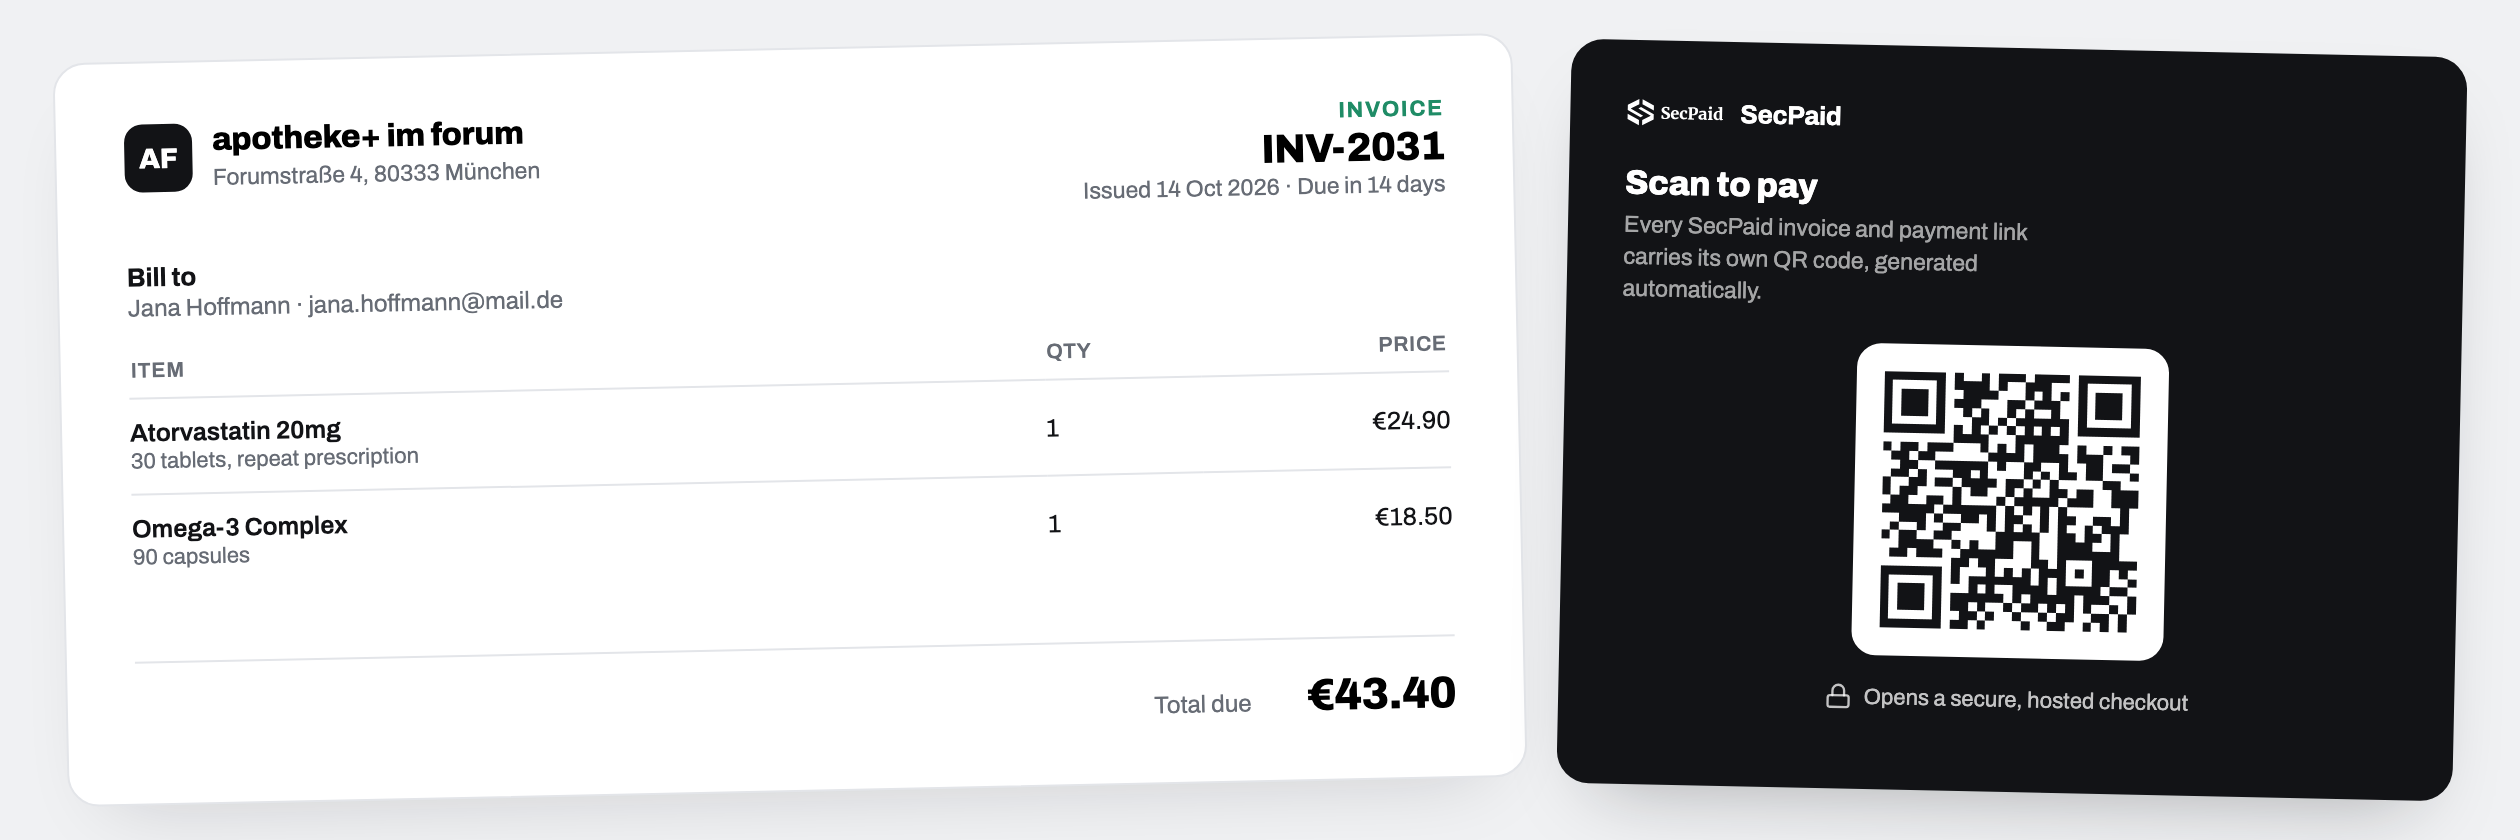
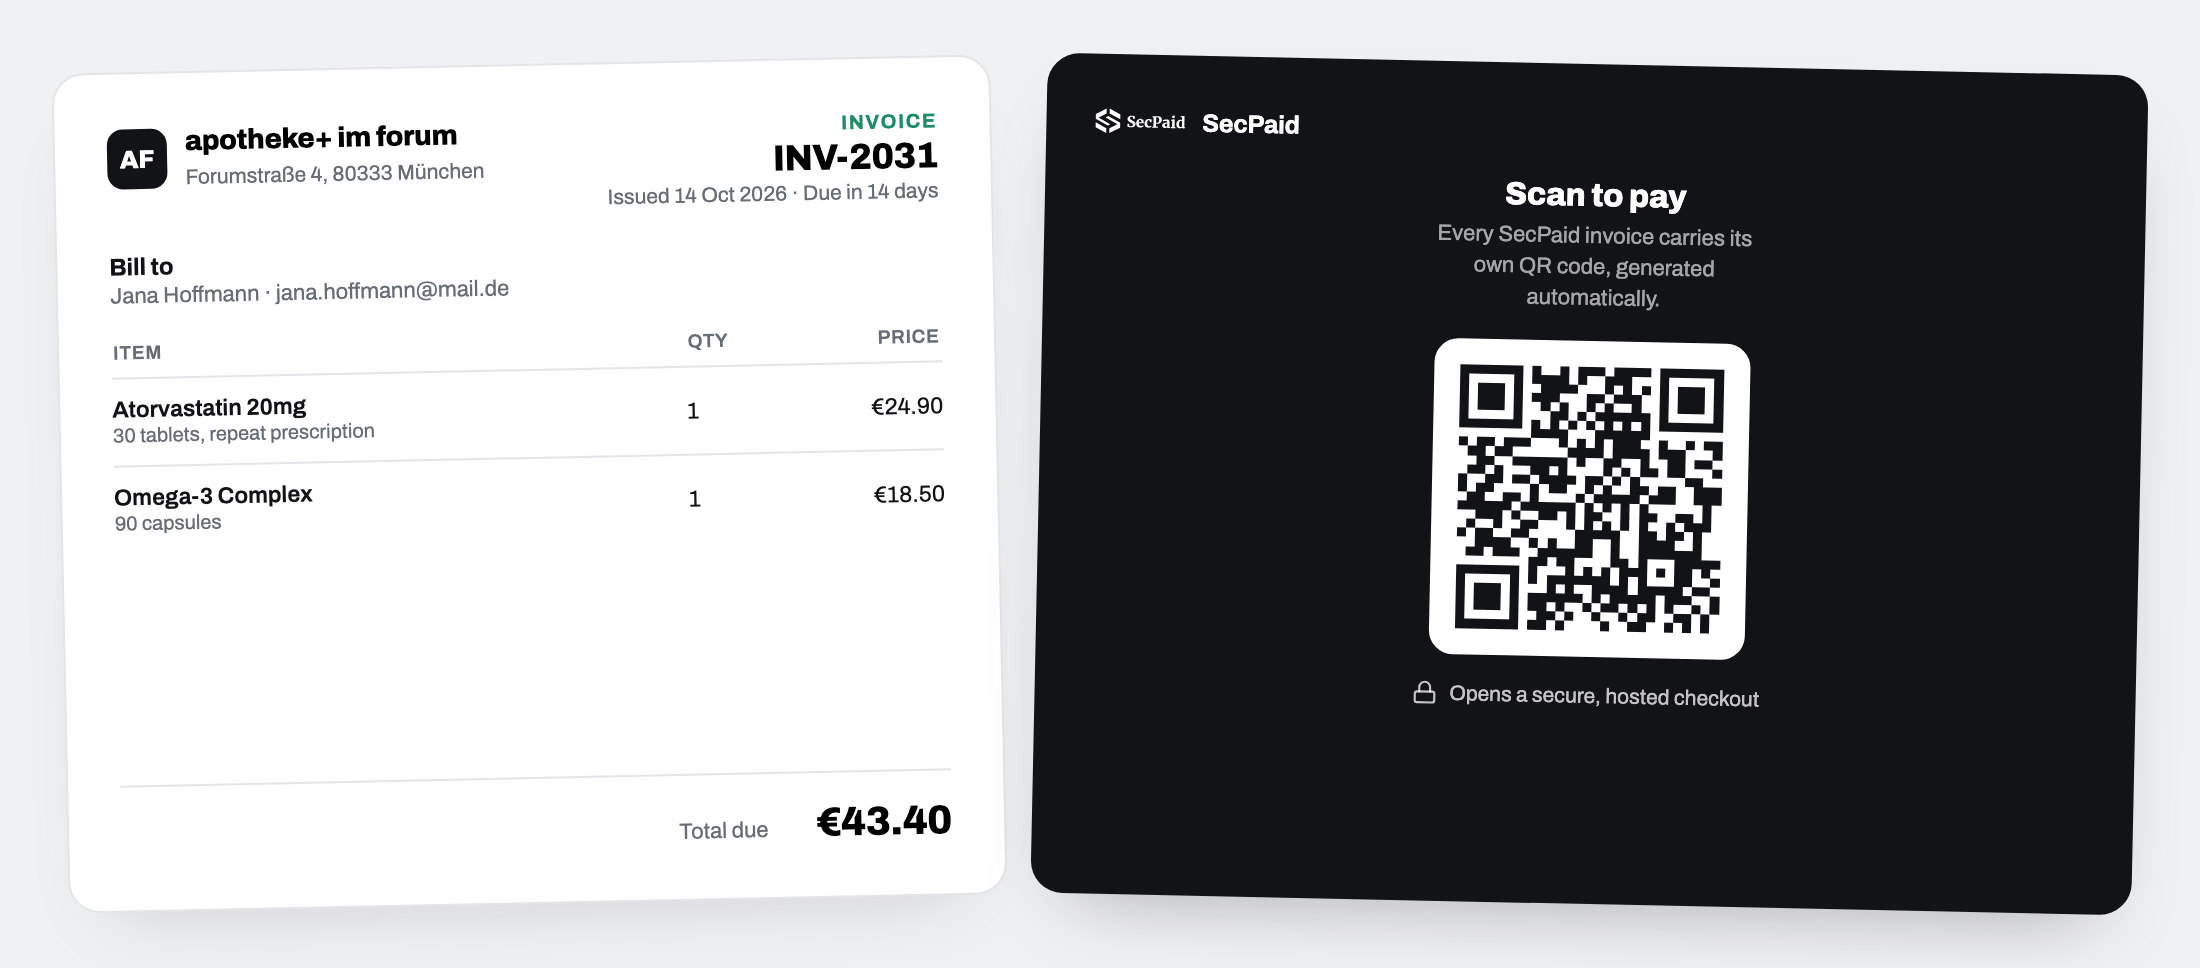
Swap Payment links and QR codes card sizes on homepage
Payment links now gets the wide (span-6) slot with a new chat +
QR checkout mockup (pharmacy recommending Vitamin C Complex,
€11.99), and QR codes moves to the narrower slot with a re-cropped
invoice + QR mockup sized for that box.

diff --git a/index.html b/index.html
@@ -251,26 +251,22 @@
             <li data-de="Auszahlungen erfolgen automatisch nach dem Settlement"><svg viewBox="0 0 24 24" width="20" height="20" fill="none" stroke="currentColor" stroke-width="2" stroke-linecap="round" stroke-linejoin="round"><path d="M20 6L9 17l-5-5"/></svg>Payouts release automatically after settlement</li>
           </ul>
         </article>
-        <article class="cell cell-d reveal" id="payment-links">
-          <div class="hook-log" aria-hidden="true">
-            link.created <span>200 OK</span><br>
-            link.paid <span>200 OK</span><br>
-            qr.scanned <span>200 OK</span>
-          </div>
-          <h3 data-de="Zahlungslinks">Payment links</h3>
-          <p data-de="Erstellen Sie einen teilbaren Zahlungslink mit einem einzigen API-Aufruf. Kein Checkout-Aufbau nötig.">Create a shareable payment link in one API call. No checkout build required.</p>
-          <ul class="cell-feats">
-            <li data-de="In Sekunden per E-Mail, SMS oder Chat versenden"><svg viewBox="0 0 24 24" width="20" height="20" fill="none" stroke="currentColor" stroke-width="2" stroke-linecap="round" stroke-linejoin="round"><path d="M20 6L9 17l-5-5"/></svg>Send by email, SMS, or chat in seconds</li>
-            <li data-de="Feste oder vom Kunden eingegebene Beträge, mit Ablaufsteuerung"><svg viewBox="0 0 24 24" width="20" height="20" fill="none" stroke="currentColor" stroke-width="2" stroke-linecap="round" stroke-linejoin="round"><path d="M20 6L9 17l-5-5"/></svg>Fixed or customer-entered amounts, with expiry controls</li>
-          </ul>
-        </article>
-        <article class="cell cell-f reveal" id="qr-codes">
+        <article class="cell cell-d reveal" id="qr-codes">
           <div class="cell-shot cell-shot-qr"><img src="assets/screens/personal-qr-crop.png" alt="A pharmacy invoice next to a SecPaid scan-to-pay QR code" loading="lazy"></div>
           <h3 data-de="QR-Codes">QR codes</h3>
           <p data-de="Jeder Zahlungslink dient zugleich als scanbarer QR-Code, automatisch generiert.">Every payment link doubles as a scannable QR code, generated automatically.</p>
           <ul class="cell-feats">
             <li data-de="Drucken Sie ihn auf Rechnungen, Verpackungen oder Ladenbeschilderung"><svg viewBox="0 0 24 24" width="20" height="20" fill="none" stroke="currentColor" stroke-width="2" stroke-linecap="round" stroke-linejoin="round"><path d="M20 6L9 17l-5-5"/></svg>Print on invoices, packaging, or in-store signage</li>
             <li data-de="Scans führen direkt zu einem sicheren, gehosteten Checkout"><svg viewBox="0 0 24 24" width="20" height="20" fill="none" stroke="currentColor" stroke-width="2" stroke-linecap="round" stroke-linejoin="round"><path d="M20 6L9 17l-5-5"/></svg>Scans open straight to a secure, hosted checkout</li>
+          </ul>
+        </article>
+        <article class="cell cell-f reveal" id="payment-links">
+          <div class="cell-shot"><img src="assets/screens/payment-link-demo-crop.png" alt="A pharmacy chat recommending Vitamin C Complex, with a SecPaid payment link and the resulting checkout with a QR code" loading="lazy"></div>
+          <h3 data-de="Zahlungslinks">Payment links</h3>
+          <p data-de="Erstellen Sie einen teilbaren Zahlungslink mit einem einzigen API-Aufruf. Kein Checkout-Aufbau nötig.">Create a shareable payment link in one API call. No checkout build required.</p>
+          <ul class="cell-feats">
+            <li data-de="In Sekunden per E-Mail, SMS oder Chat versenden"><svg viewBox="0 0 24 24" width="20" height="20" fill="none" stroke="currentColor" stroke-width="2" stroke-linecap="round" stroke-linejoin="round"><path d="M20 6L9 17l-5-5"/></svg>Send by email, SMS, or chat in seconds</li>
+            <li data-de="Feste oder vom Kunden eingegebene Beträge, mit Ablaufsteuerung"><svg viewBox="0 0 24 24" width="20" height="20" fill="none" stroke="currentColor" stroke-width="2" stroke-linecap="round" stroke-linejoin="round"><path d="M20 6L9 17l-5-5"/></svg>Fixed or customer-entered amounts, with expiry controls</li>
           </ul>
         </article>
       </div>
